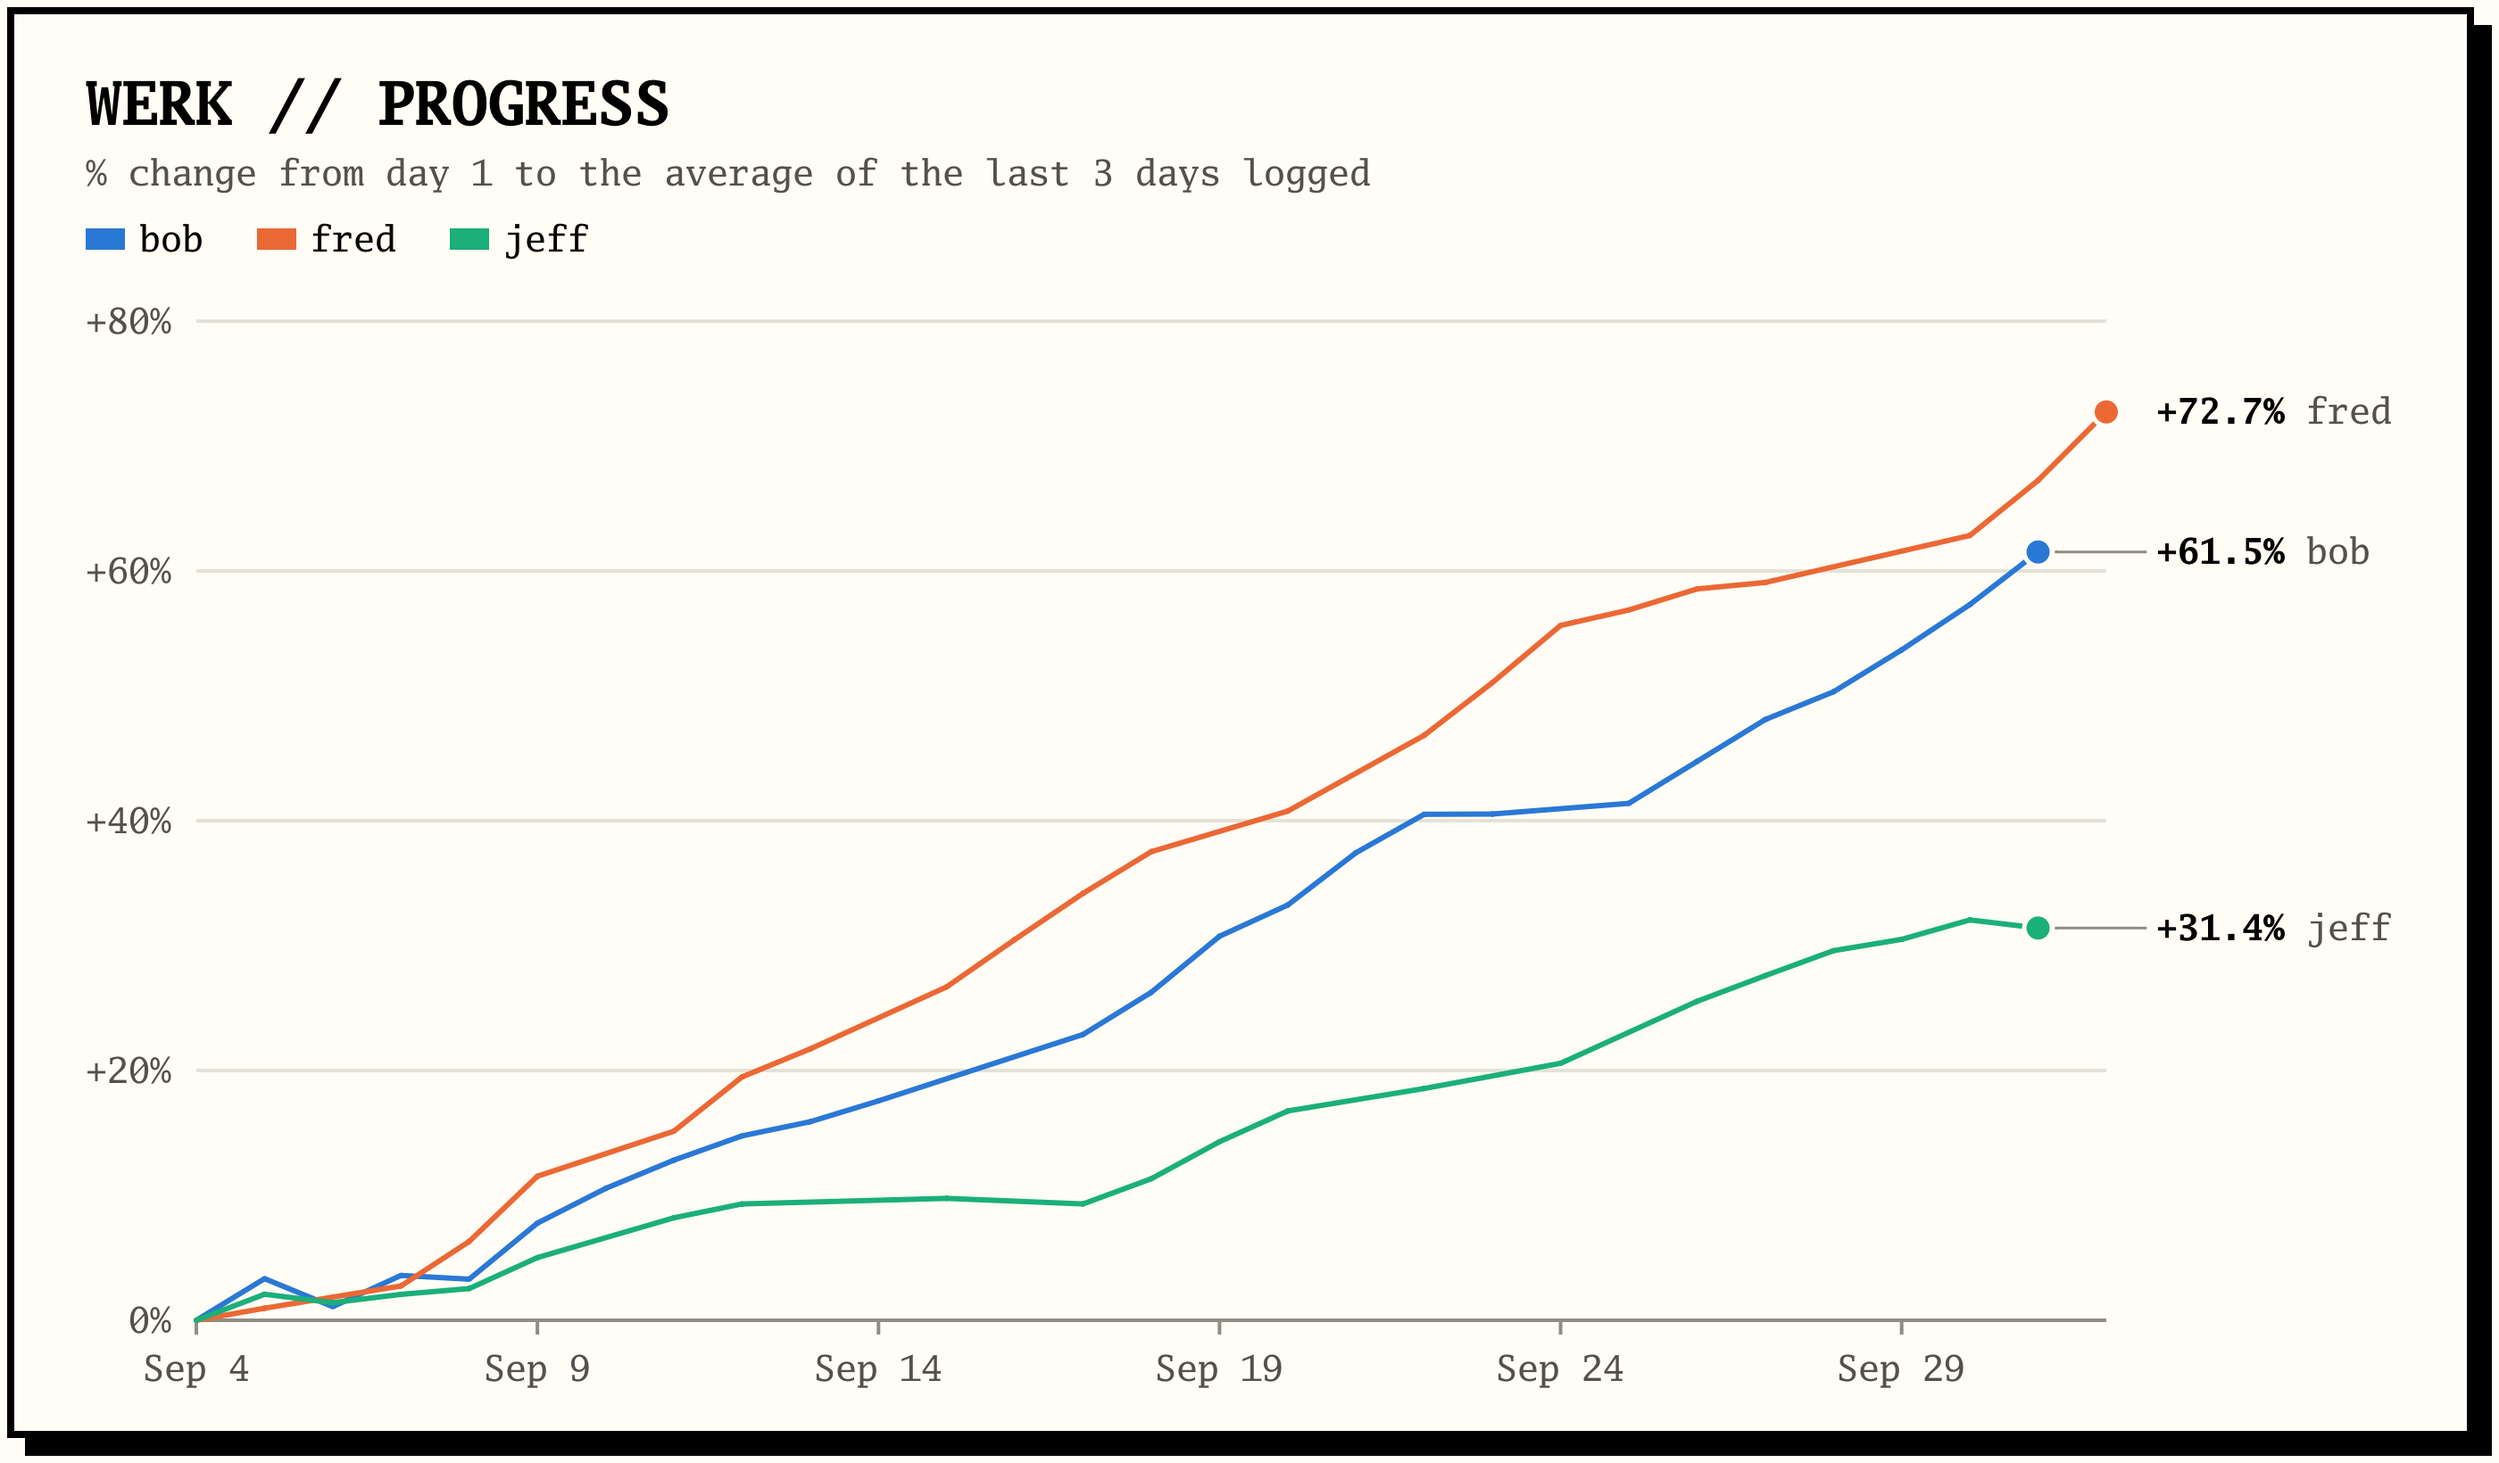
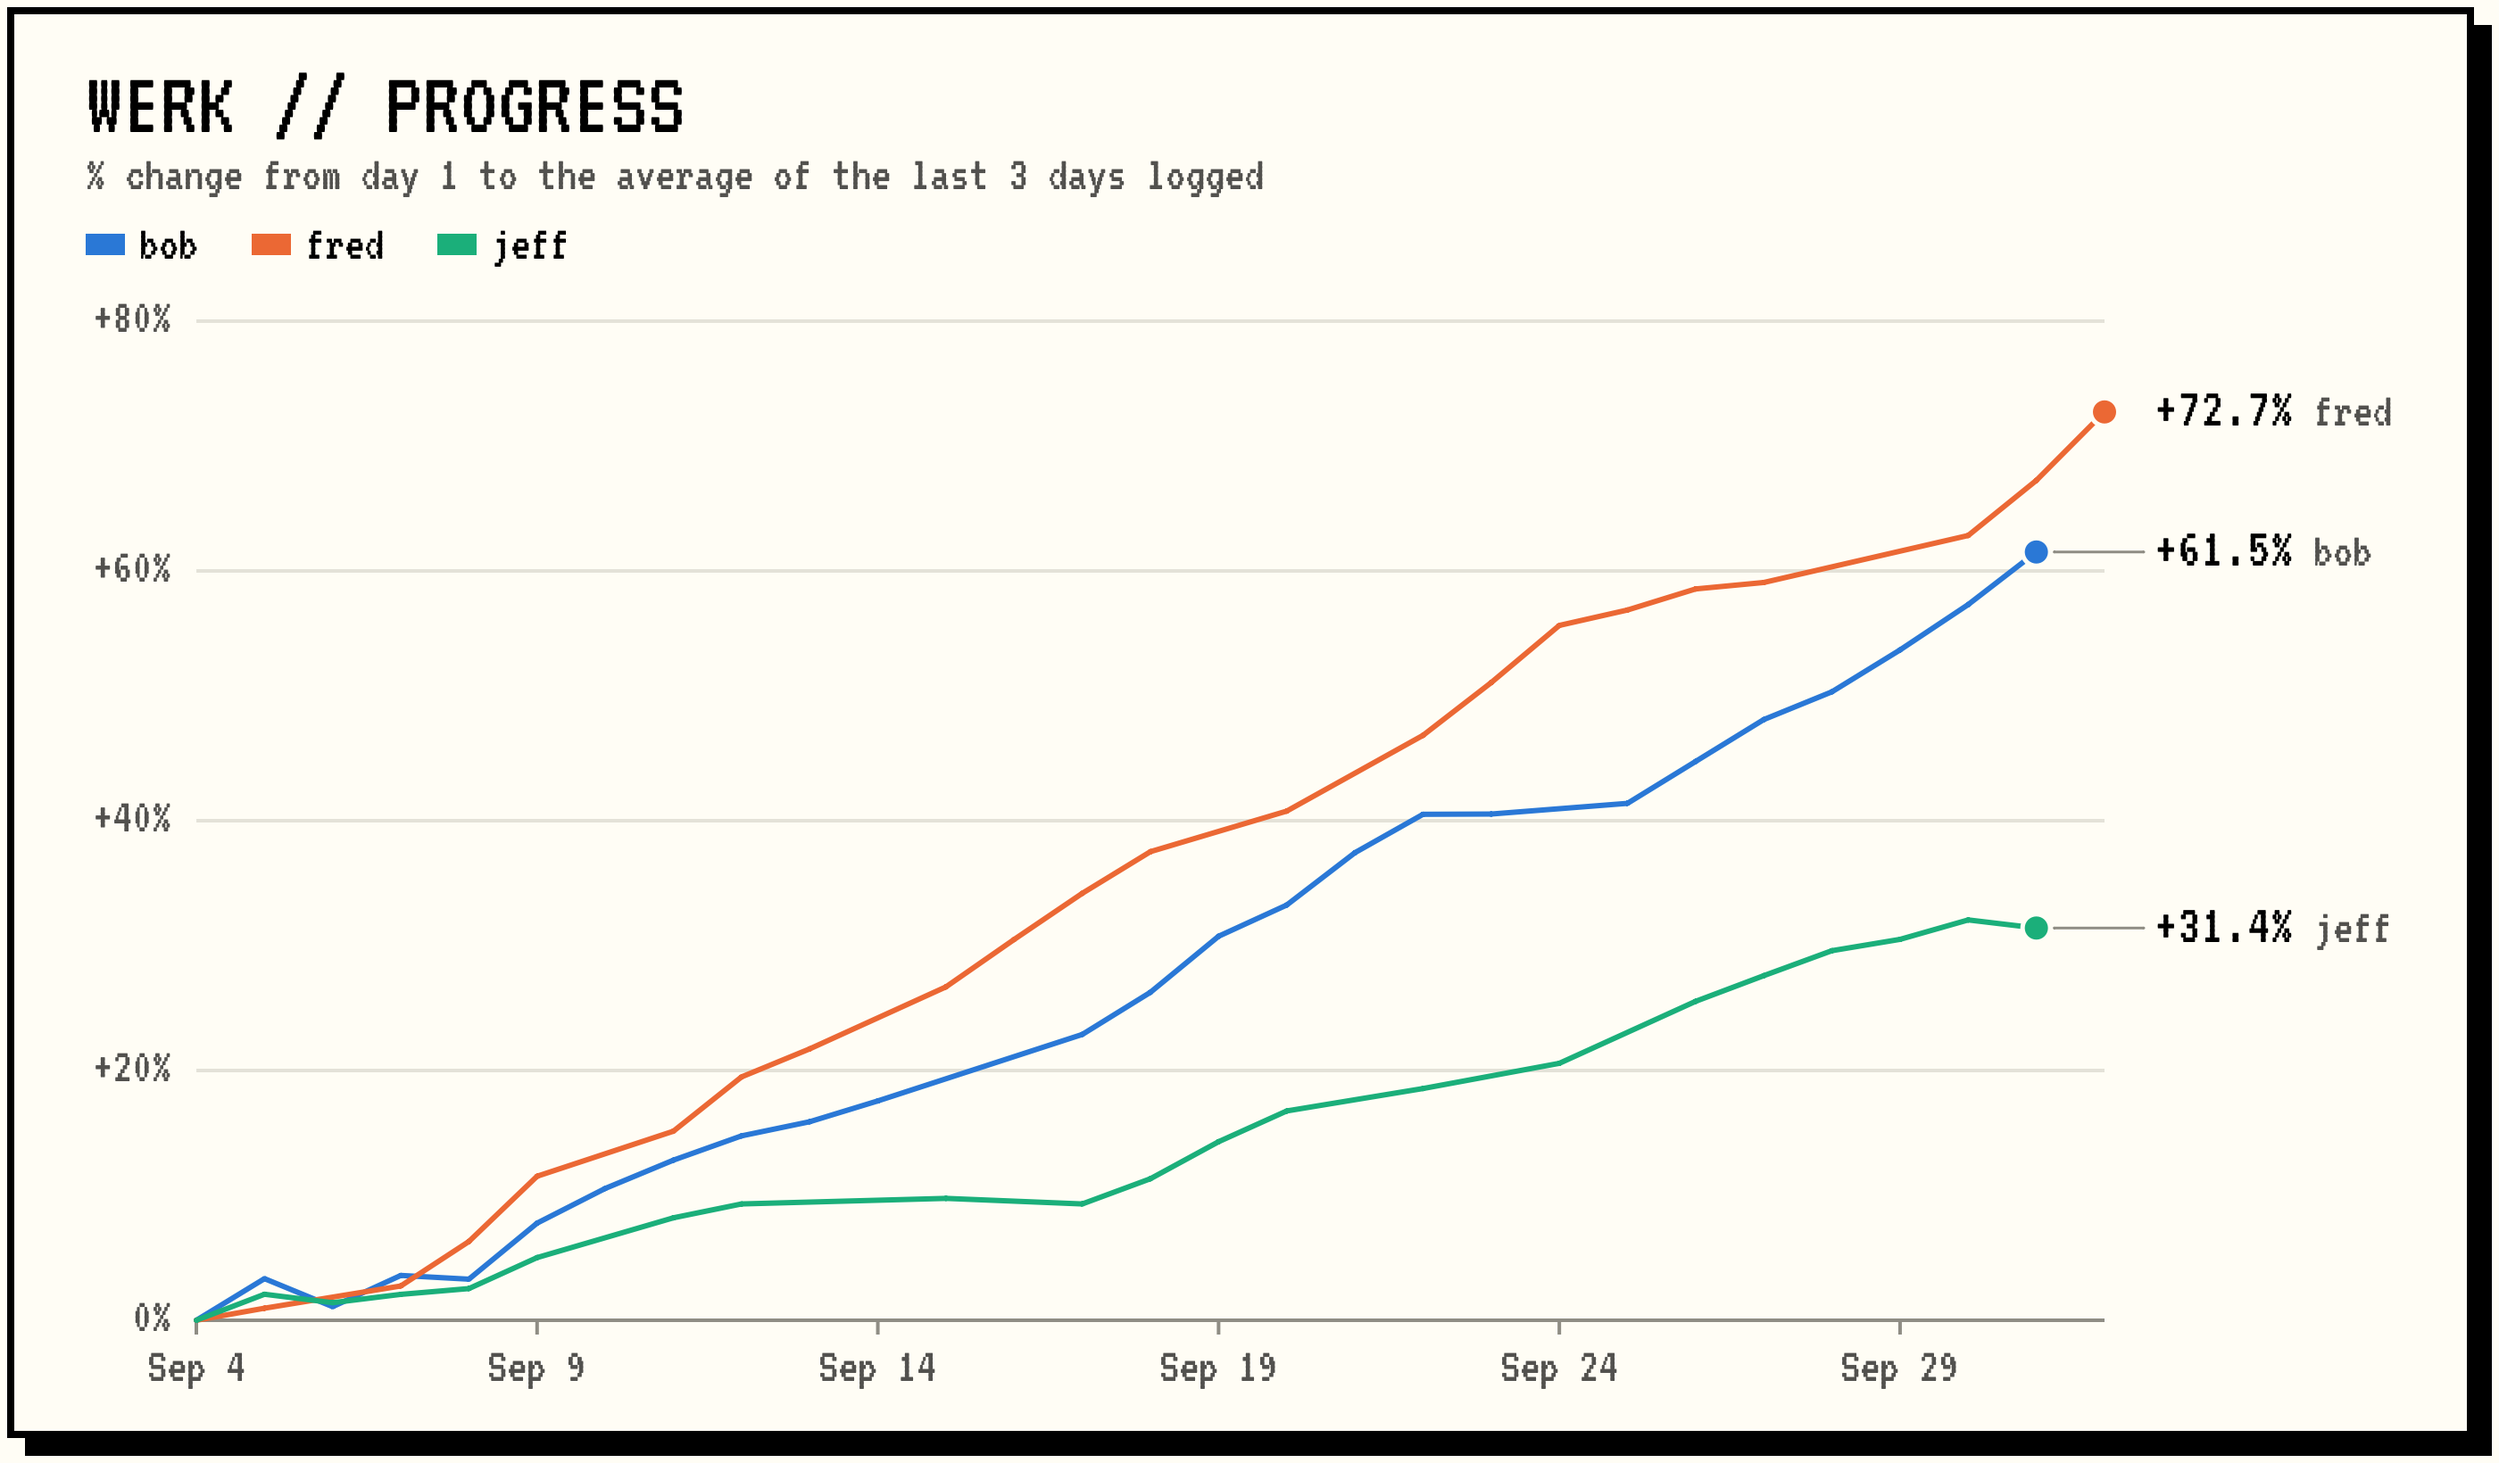
Plots use the app's VT323 font

diff --git a/plot.go b/plot.go
@@ -14,8 +14,6 @@ import (
 	"time"
 
 	"golang.org/x/image/font"
-	"golang.org/x/image/font/gofont/gomono"
-	"golang.org/x/image/font/gofont/gomonobold"
 	"golang.org/x/image/font/opentype"
 	"golang.org/x/image/math/fixed"
 	"golang.org/x/image/vector"
@@ -142,27 +140,33 @@ func plural(n int) string {
 
 func drawChart(w io.Writer, title, subtitle, unit string, zeroLine bool, all []series) error {
 	c := newCanvas(plotW, plotH)
-	titleFace, err := face(gomonobold.TTF, 34)
+	// Same pixel font as the app. It has no bold, so hierarchy comes from
+	// size and ink.
+	vt323, err := staticFS.ReadFile("static/VT323-Regular.ttf")
 	if err != nil {
 		return err
 	}
-	textFace, _ := face(gomono.TTF, 20)
-	labelFace, _ := face(gomonobold.TTF, 20)
+	titleFace, err := face(vt323, 52)
+	if err != nil {
+		return err
+	}
+	textFace, _ := face(vt323, 28)
+	labelFace, _ := face(vt323, 32)
 
 	// Window chrome to match the app: black frame with a hard drop shadow.
 	c.rect(14, 14, plotW-4, plotH-4, inkPrimary)
 	c.rect(4, 4, plotW-14, plotH-14, inkPrimary)
 	c.rect(8, 8, plotW-18, plotH-18, paper)
 
-	c.text(titleFace, 48, 70, title, inkPrimary)
-	c.text(textFace, 48, 104, subtitle, inkSecondary)
+	c.text(titleFace, 48, 74, title, inkPrimary)
+	c.text(textFace, 48, 106, subtitle, inkSecondary)
 
 	// Legend: swatch + name, always present for 2+ series.
 	lx := 48.0
 	if len(all) > 1 {
 		for i, s := range all {
-			c.rect(lx, 128, lx+22, 140, colorFor(i))
-			c.text(textFace, lx+30, 141, s.label, inkPrimary)
+			c.rect(lx, 131, lx+22, 143, colorFor(i))
+			c.text(textFace, lx+30, 145, s.label, inkPrimary)
 			lx += 30 + c.measure(textFace, s.label) + 30
 		}
 	}
@@ -215,7 +219,7 @@ func drawChart(w io.Writer, title, subtitle, unit string, zeroLine bool, all []s
 		if zeroLine && t > 0 {
 			lbl = "+" + lbl
 		}
-		c.text(textFace, left-14-c.measure(textFace, lbl), y(t)+7, lbl, inkSecondary)
+		c.text(textFace, left-14-c.measure(textFace, lbl), y(t)+6, lbl, inkSecondary)
 	}
 	c.rect(left, bottom-1, right, bottom+1, axis)
 
@@ -265,8 +269,8 @@ func drawChart(w io.Writer, title, subtitle, unit string, zeroLine bool, all []s
 		if math.Abs(e.y-e.dotY) > 2 || e.dotX < right-1 {
 			c.polyline([][2]float64{{e.dotX + 10, e.dotY}, {lx - 6, e.y}}, 1.5, axis)
 		}
-		c.text(labelFace, lx, e.y+7, e.s.end, inkPrimary)
-		c.text(textFace, lx+c.measure(labelFace, e.s.end), e.y+7, " "+e.s.label, inkSecondary)
+		c.text(labelFace, lx, e.y+8, e.s.end, inkPrimary)
+		c.text(textFace, lx+c.measure(labelFace, e.s.end), e.y+8, " "+e.s.label, inkSecondary)
 	}
 
 	return png.Encode(w, c.img)
